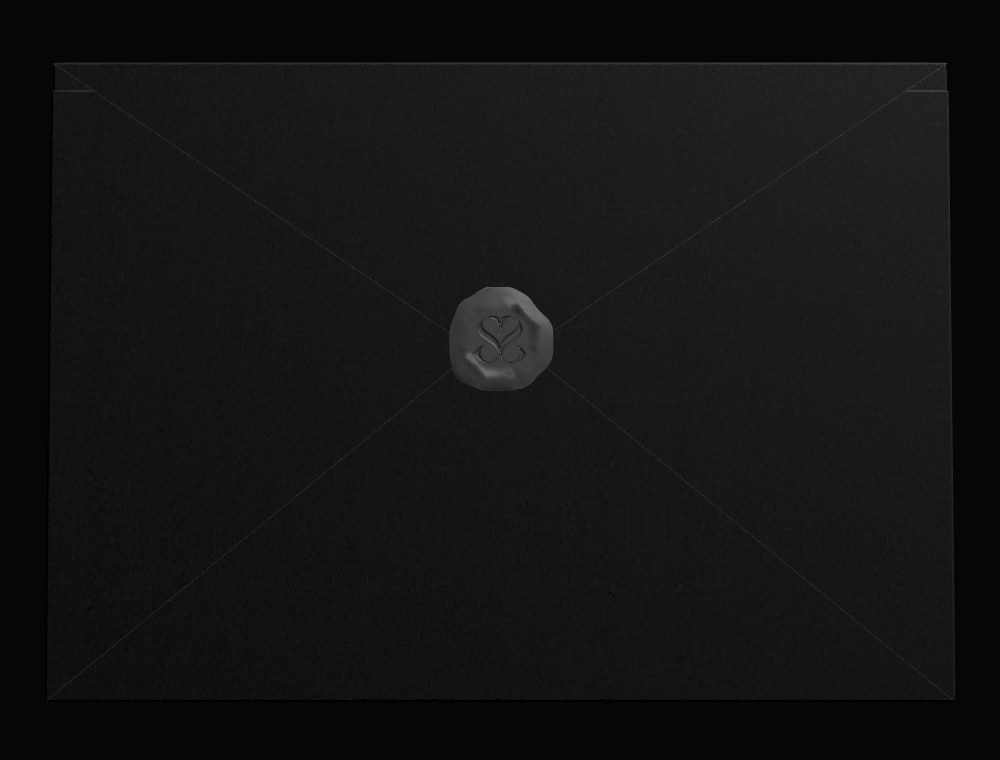
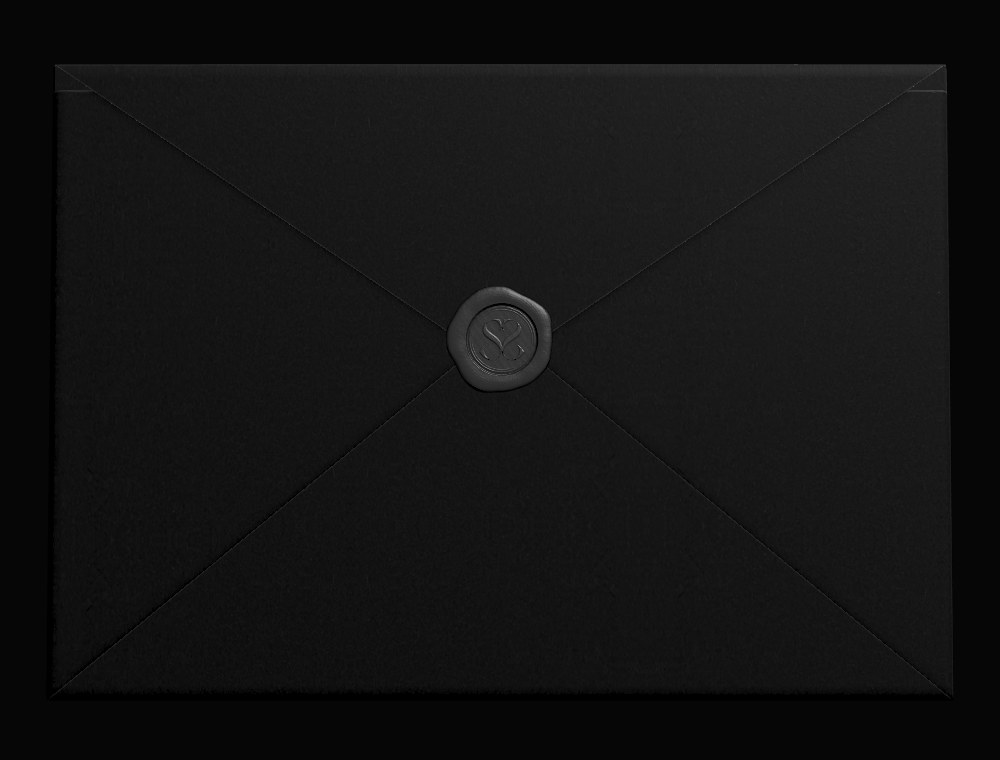
Enveloppe : bords en plis arrondis (le dos se referme sur la face sur 2,5 mm — plus de fente entre deux feuilles plates) ; version simple régénérée (enveloppe, dos avec le nouveau cachet, tampon, cartes du portail avec leurs coupures, le jeu de dos) ; tampon sans ctx.filter (Safari < 18)

Changed region(s): [[0.465, 0.3632, 0.558, 0.5145]]

diff --git a/email-assets.html b/email-assets.html
@@ -98,9 +98,9 @@
   const grab = (type = 'image/jpeg') => { gl.finish(); return canvas.toDataURL(type, 0.88); };
   const CW = 900, CH = 550, CF = 0.86;                       // cartes : même cadrage que les images de l'email (720 × 440)
   // une carte : face 'recto' (logo en creux, encre) ou 'dos' (logo gaufré) ; text : tapé dessus ; noLogo
-  function cardImg({ face = 'recto', text = '', noLogo = false, seed = 1 } = {}) {
+  function cardImg({ face = 'recto', text = '', noLogo = false, seed = 1, lines = null, center = false } = {}) {
     const { vp, eye, P } = view(CW, CH, CARD.w, CF);
-    const ink = text ? card.makeInk(makeInkMap(text, seed).canvas) : null;
+    const ink = text ? card.makeInk(makeInkMap(text, seed, lines, center).canvas) : null;   // coupures et centrage du portail
     const v = { seed: seed % 97, paperXf: [0.6, -0.4, 0, 0], warp: [0.18, -0.08, 0.04], logoOff: [0, 0], noLogo };
     if (face === 'recto') card.draw(vp, eye, P, { model: M4.model(0, Math.PI, 0.004), lod: 'fine', ink, ...v });
     else card.draw(vp, eye, P, { model: M4.model(0, 0, -0.004), lod: 'fine', inkBack: ink, ...v });
@@ -117,28 +117,31 @@
   function envFrontImg() {
     card.addShape('env', { ...EV.ENV, fine: null });
     const { vp, eye, P } = view(1000, 760, EV.ENV.w, 0.9);
-    card.draw(vp, eye, { ...P, inkAlb: 0.75, inkPaper: 4, inkVar: 0.3 }, { model: M4.model(0, Math.PI, 0), lod: 'env', ...envBase });
+    card.draw(vp, eye, { ...P, inkAlb: 0.75, inkPaper: 4, inkVar: 0.3 }, { model: M4.model(0, Math.PI, 0), lod: 'env', ...envBase, ...EV.envPieces(1, 0).front });
     return grab();
   }
-  // le dos, rabat fermé, cachet de cire argenté sur la pointe
+  // le dos, rabat fermé, le cachet sur la pointe — comme dans le parcours (09/10 : forme, cire, bombé, ombre des rabats)
   function envBackImg() {
-    const E = EV;
+    const E = EV, EP = E.envPieces(1, 1);
+    let sd = 11; const rnd = () => { sd = (sd * 16807) % 2147483647; return sd / 2147483647; };
+    const SD = E.sealDraw(rnd), SH = E.SEAL_SHAPE0, Fm = E.sealForm(1, E.SEAL_LOOK0, SH);
     card.addShape('env', { ...E.ENV, fine: null });
     card.addShape('envBack', { ...E.ENV, h: E.ENV_BACK_H, fine: null });
     card.addShape('flap', { ...E.ENV, h: E.FLAP_H, fine: null });
     card.addShape('botFlap', { ...E.ENV, fine: null });
-    card.addShape('seal', { w: E.SEAL_D, h: E.SEAL_D, r: E.SEAL_D / 2, t: 0.2, fine: [E.SEAL_D / 2 + 1, E.SEAL_D / 2 + 1, 0.2, 0, 0], seg: 48, wobble: E.SEAL_WOB });
+    const sealLod = card.addShape('seal-img', { w: E.SEAL_D, h: E.SEAL_D, r: E.SEAL_D / 2, t: 0.2, fine: [E.SEAL_D / 2 + 1, E.SEAL_D / 2 + 1, 0.2, 0, 0], seg: 48, wobble: E.SEAL_WOB, wobPhase: SD.wobPhase, alwaysFine: true });
     const { vp, eye, P } = view(1000, 760, E.ENV.w, 0.9);
     const T = (x, y, z) => M4.model(0, 0, 0, x, y, z), Me = M4.model(0, 0, 0);
-    card.draw(vp, eye, P, { model: Me, lod: 'env', ...envBase });
-    card.draw(vp, eye, P, { model: M4.mul(Me, T(0, -(E.ENV.h - E.ENV_BACK_H) / 2, 1.6)), lod: 'envBack', ...envBase, seed: 31 });
-    card.draw(vp, eye, P, { model: M4.mul(Me, T(0, 0, 1.74)), lod: 'botFlap', ...envBase, seed: 37, clip: [1, -E.ENV.h / 2, E.ENV.h * 0.58, E.ENV.w / 2] });
+    card.draw(vp, eye, P, { model: Me, lod: 'env', ...envBase, ...EP.front });
+    card.draw(vp, eye, P, { model: M4.mul(Me, T(0, -(E.ENV.h - E.ENV_BACK_H) / 2, 1.6)), lod: 'envBack', ...envBase, seed: 31, ...EP.back });
+    card.draw(vp, eye, P, { model: M4.mul(Me, T(0, 0, 1.74)), lod: 'botFlap', ...envBase, seed: 37, clip: [1, -E.ENV.h / 2, E.ENV.h * 0.58, E.ENV.w / 2], ...EP.bot });
     const Mf = M4.mul(Me, M4.mul(M4.mul(T(0, E.ENV.h / 2, 1.9), M4.model(Math.PI, 0, 0)), T(0, E.FLAP_H / 2, 0)));
-    card.draw(vp, eye, P, { model: Mf, lod: 'flap', ...envBase, seed: 43, clip: [1, -E.FLAP_H / 2, E.FLAP_H, E.ENV.w / 2] });
-    const SEAL_LOOK = { albedo: 0.1, rough: 0.34, spec: 6, sheen: 0.2, glint: 0.7, grain: 0.35, fiber: 0, envSpec: 2.6, h: 0.42, b: 0.5, foot: 0.5, footW: 0.12, crease: 0.2, edge: 0, diffRough: 0.35 };
-    const Ms = M4.mul(Mf, T(0, E.FLAP_H / 2 - 7, -0.19));
-    card.draw(vp, eye, { ...P, ...SEAL_LOOK }, { model: Ms, lod: 'seal', seed: 7, paperXf: [0, 0, 0, 0], paperLo: 0.15, logoOff: [0, 0],
-      logoScale: [E.SEAL_K, -E.SEAL_K], warp: [0, 0, 0], seal: [1, E.SEAL_IN, E.SEAL_D / 2, E.SEAL_WOB] });
+    card.draw(vp, eye, P, { model: Mf, lod: 'flap', ...envBase, seed: 43, clip: [1, -E.FLAP_H / 2, E.FLAP_H, E.ENV.w / 2], ...EP.flap });
+    const Ms = M4.mul(Mf, T(0, E.FLAP_H / 2 - 7, -0.19 - EP.sealDz));
+    card.draw(vp, eye, { ...P, ...Fm.look }, { model: Ms, lod: sealLod, seed: 7, paperXf: [0, 0, 0, 0], paperLo: SH.marbre, logoOff: [SD.offX, SD.offY],
+      logoScale: [E.SEAL_K, -E.SEAL_K], warp: [0, 0, 0], seal: [1, E.SEAL_IN, E.SEAL_D / 2, E.SEAL_WOB], form: 1,
+      sealP: [SH.hd, SH.hc, SH.crest, Fm.ring], sealQ: [Fm.pits, Fm.cavWall, SH.cavEdge, SH.aoW], sealV4: [SD.wobPhase, SD.crest, SD.tilt, Fm.peau],
+      sealR: [SH.film, SH.sss, SD.offX, SD.offY], blend: true });
     return grab();
   }
   async function simple() {
@@ -147,7 +150,7 @@
     out.push(['vierge.jpg', cardImg({ face: 'recto', noLogo: true, seed: 5 })]);
     out.push(['bientot.jpg', cardImg({ face: 'dos', text: 'bientôt', seed: 77 })]);
     const { ITEMS } = await import('./src/portal/items.js');
-    for (const it of ITEMS) out.push(['portail-' + it.id + '.jpg', cardImg({ face: 'recto', text: it.label, seed: 100 + it.id.length * 7 })]);
+    for (const it of ITEMS) out.push(['portail-' + it.id + '.jpg', cardImg({ face: it.back ? 'dos' : 'recto', text: it.label, lines: it.lines, center: it.center, seed: 100 + it.id.length * 7 })]);
     out.push(['commander.jpg', cardImg({ face: 'recto', text: 'commander', seed: 5 })]);
     out.push(['feuille.jpg', sheetImg()]);
     out.push(['enveloppe.jpg', envFrontImg()]);

diff --git a/src/sheet/envelope.js b/src/sheet/envelope.js
@@ -142,10 +142,14 @@ export function stampInk(cx, PX, mask, x, y, rot, seed) {
   };
   g.translate(S / 2, S / 2); shape();
   const A = g.getImageData(0, 0, S, S).data;                     // la forme nette
-  // la forme adoucie : pour savoir où l'on est au bord d'un trait, où au milieu d'un plein
-  g.setTransform(1, 0, 0, 1, 0, 0); g.clearRect(0, 0, S, S); g.filter = `blur(${(0.35 * PX).toFixed(1)}px)`;
-  g.translate(S / 2, S / 2); shape(); g.filter = 'none';
-  const B = g.getImageData(0, 0, S, S).data;
+  // la forme adoucie : pour savoir où l'on est au bord d'un trait, où au milieu d'un plein (flou fait à la main :
+  // ctx.filter n'existe pas sur Safari avant iOS 18)
+  const B = new Float32Array(S * S), tmp = new Float32Array(S * S), R = Math.max(1, Math.round(0.35 * PX));
+  for (let k = 0; k < S * S; k++) B[k] = A[k * 4 + 3] / 255;
+  for (let pass = 0; pass < 2; pass++) {
+    for (let yy = 0; yy < S; yy++) { let acc = 0; for (let xx = -R; xx < S + R; xx++) { if (xx + R < S && xx + R >= 0) acc += B[yy * S + xx + R]; if (xx - R - 1 >= 0 && xx - R - 1 < S) acc -= B[yy * S + xx - R - 1]; if (xx >= 0 && xx < S) tmp[yy * S + xx] = acc / (2 * R + 1); } }
+    for (let xx = 0; xx < S; xx++) { let acc = 0; for (let yy = -R; yy < S + R; yy++) { if (yy + R < S && yy + R >= 0) acc += tmp[(yy + R) * S + xx]; if (yy - R - 1 >= 0 && yy - R - 1 < S) acc -= tmp[(yy - R - 1) * S + xx]; if (yy >= 0 && yy < S) B[yy * S + xx] = acc / (2 * R + 1); } }
+  }
   // bruit doux (valeurs sur une grille, interpolées) ; étiré pour les fibres
   const grid = (n) => { const a = new Float32Array((n + 1) * (n + 1)); for (let k = 0; k < a.length; k++) a[k] = r(); return a; };
   const noise = (G, n, u, v) => { u = Math.max(0, Math.min(n - 1e-3, u)); v = Math.max(0, Math.min(n - 1e-3, v));
@@ -158,7 +162,7 @@ export function stampInk(cx, PX, mask, x, y, rot, seed) {
   for (let yy = 0; yy < S; yy++) for (let xx = 0; xx < S; xx++) {
     const k = (yy * S + xx) * 4, a = A[k + 3] / 255;
     if (a < 0.01) continue;
-    const b = B[k + 3] / 255, u = xx / S, v = yy / S;
+    const b = B[k >> 2], u = xx / S, v = yy / S;
     // bord des traits : là où la forme nette dépasse la forme adoucie (l'encre y est plus dense)
     const edge = Math.max(0, Math.min(1, (a - b) * 3 + (1 - b) * 0.6));
     // appui : un dégradé franc d'un côté à l'autre, ondulé
@@ -168,11 +172,12 @@ export function stampInk(cx, PX, mask, x, y, rot, seed) {
     const fu2 = (u * fc + v * fs) * nF * 0.35, fv2 = (-u * fs + v * fc) * nF;
     const fib = noise(GF, nF, ((fu2 % nF) + nF) % nF, ((fv2 % nF) + nF) % nF);
     const mott = noise(GM, nM, u * nM, v * nM);
-    let ink = a * (0.68 + 0.32 * edge) * (0.78 + 0.22 * mott) * (0.55 + 0.45 * press);
-    // moins d'appui : l'encre ne prend plus que sur les sommets des fibres
-    const thr = (1 - press) * 0.85 - edge * 0.15;
-    ink *= Math.max(0, Math.min(1, (fib - thr) * 5 + 0.55));
-    const val = Math.max(0, Math.min(1, ink)) * 0.82;
+    // (09/10 : plus proche de l'encre tapée — trait plein et net, appui qui varie doucement ; les fibres ne mordent
+    // que là où le tampon a vraiment moins appuyé)
+    let ink = a * (0.84 + 0.16 * edge) * (0.88 + 0.12 * mott) * (0.64 + 0.36 * press);
+    const thr = (1 - press) * 0.5 - edge * 0.15;
+    ink *= Math.max(0, Math.min(1, (fib - thr) * 4 + 0.8));
+    const val = Math.max(0, Math.min(1, ink)) * 0.95;
     O[k] = O[k + 1] = O[k + 2] = 255; O[k + 3] = Math.round(val * 255);
   }
   g.setTransform(1, 0, 0, 1, 0, 0); g.clearRect(0, 0, S, S); g.putImageData(out, 0, 0);
@@ -249,16 +254,18 @@ export function sealForm(u, look, shape) {
 
 // l'enveloppe pleine (09/10) : un léger bombé (la feuille et la carte dedans ; bulge 0 → 1) et l'ombre fine sous le bord
 // des rabats (closed : le rabat du haut fermé, 0 → 1) — ce que chaque pièce reçoit (cardRenderer : uPillow, uTriA/B)
-export const ENV_BULGE = 1.2, FLAP_SH = 0.38;
+export const ENV_BULGE = 1.2, FLAP_SH = 0.38, FOLD_W = 2.5;
 export function envPieces(bulge, closed) {
   const A = ENV_BULGE * bulge, c2 = closed * closed;
   const flapTri = [FLAP_SH * c2, ENV.h / 2, ENV.h / 2 - FLAP_H, ENV.w / 2], botTri = [FLAP_SH, -ENV.h / 2, -ENV.h / 2 + ENV.h * 0.58, ENV.w / 2];
   const sy = ENV.h / 2 - FLAP_H + 7, wSeal = 1 - (sy / (ENV.h / 2)) ** 2;
   return {
     front: { pillow: [A, 0, 1, -1] },
-    back: { pillow: [A, -(ENV.h - ENV_BACK_H) / 2, 1, 1], triA: flapTri, triB: botTri },
-    bot: { pillow: [A, 0, 1, 1], triA: flapTri },
-    flap: { pillow: [A * c2, ENV.h / 2 - FLAP_H / 2, -1, -1] },
+    // les bords : le dos (à 1,6–1,9 mm de la face) s'y referme en pli arrondi sur les 2,5 derniers mm (côtés, bas ; le rabat
+    // fermé, en haut) — sans cela on voyait deux feuilles plates séparées par une fente
+    back: { pillow: [A, -(ENV.h - ENV_BACK_H) / 2, 1, 1], triA: flapTri, triB: botTri, foldZ: [1.4, FOLD_W] },
+    bot: { pillow: [A, 0, 1, 1], triA: flapTri, foldZ: [1.54, FOLD_W] },
+    flap: { pillow: [A * c2, ENV.h / 2 - FLAP_H / 2, -1, -1], foldZ: [1.7 * c2, FOLD_W] },
     sealDz: A * c2 * wSeal,                                      // le cachet monte avec le rabat bombé
   };
 }

diff --git a/src/cards/cardRenderer.js b/src/cards/cardRenderer.js
@@ -156,6 +156,8 @@ uniform vec3 uWarp;          // gondolage (mm) : courbure en x, en y, torsion
 // enveloppe (09/10) : bombé (mm au centre, centre de la pièce dans l'enveloppe en y, sens de y, sens de z) — la feuille et la
 // carte dedans gonflent les deux faces ; nul sur les bords (toutes les pièces suivent la même courbe)
 uniform vec4 uPillow;
+// le dos se referme sur la face au bord de l'enveloppe (pli arrondi) : (de combien en mm, sur quelle largeur en mm)
+uniform vec2 uFoldZ;
 uniform vec3 uCurl;          // coin corné : sens du coin (x, y : ±1, repère de la carte), soulèvement (mm, signé)
 uniform sampler2D uLogo;
 uniform float uLogoSq, uLogoRange, uH, uB, uFoot, uFootW, uNoLogo;
@@ -201,6 +203,14 @@ void main() {
   int f = int(aFace + 0.5);
   if (uSeal.x > 0.5 && f == 1) {
     float e = 0.12, h0 = sealH(aPos.xy);
+  if (uFoldZ.x > 0.0) {
+    // distance au bord de l'enveloppe ; le dos plonge vers la face en quart de rond sur les derniers millimètres
+    float ex = aPos.x, ey = uPillow.y + uPillow.z * aPos.y, dx = 114.5 - abs(ex), dy = 81.0 - abs(ey);
+    bool onX = dx < dy; float d = max(0.0, min(dx, dy)), t = clamp(d / uFoldZ.y, 0.0, 1.0), sz = uPillow.w;
+    z -= sz * uFoldZ.x * (1.0 - t) * (1.0 - t);
+    float g = sz * uFoldZ.x * 2.0 * (1.0 - t) / uFoldZ.y * step(d, uFoldZ.y);   // d(z)/d(d), d décroît vers le bord
+    if (onX) dzx -= g * sign(ex); else dzy -= g * sign(ey) * uPillow.z;
+  }
     z -= h0;
     dzx -= (sealH(aPos.xy + vec2(e, 0.0)) - sealH(aPos.xy - vec2(e, 0.0))) / (2.0 * e);
     dzy -= (sealH(aPos.xy + vec2(0.0, e)) - sealH(aPos.xy - vec2(0.0, e))) / (2.0 * e);
@@ -696,7 +706,7 @@ export async function createCardRenderer(gl, base = './') {
     gl.uniform1f(u.uNoLogo, card.noLogo ? 1 : 0);
     gl.uniform4fv(u.uSeal, card.seal || [0, 0, 1, 0]);
     gl.uniform4fv(u.uAO, card.ao || [0, 0, 0, 0]);
-    gl.uniform4fv(u.uPillow, card.pillow || [0, 0, 1, 1]); gl.uniform4fv(u.uTriA, card.triA || [0, 0, 0, 0]); gl.uniform4fv(u.uTriB, card.triB || [0, 0, 0, 0]);
+    gl.uniform4fv(u.uPillow, card.pillow || [0, 0, 1, 1]); gl.uniform2fv(u.uFoldZ, card.foldZ || [0, 1]); gl.uniform4fv(u.uTriA, card.triA || [0, 0, 0, 0]); gl.uniform4fv(u.uTriB, card.triB || [0, 0, 0, 0]);
     gl.uniform4fv(u.uSealP, card.sealP || [0.55, 1.5, 0.42, 0.08]); gl.uniform4fv(u.uSealQ, card.sealQ || [1, 0.5, 0.45, 0.9]);
     gl.uniform4fv(u.uPaperXf, card.paperXf || [0, 0, 0, 0]);
     gl.uniform3fv(u.uWarp, card.warp || [0, 0, 0]);

diff --git a/CLAUDE.md b/CLAUDE.md
@@ -164,7 +164,8 @@ Reprise de session : lire ce fichier + `ETAT.md`. Ne pas relire le prototype ni 
 - **Envoi : la vue s'approche du cachet pendant que le rabat se ferme** (`PO.zoomIn`, ≈ 65 mm de large à l'écran), on le regarde se poser, puis elle recule jusqu'à l'enveloppe entière (`PO.zoomOut`) **avant** la bascule — la tranche reste calée au pixel près sur le champ de l'email (vérifié, `tools/env-shot.mjs`).
 - **Le cachet est toujours dessiné en maillage fin** (`alwaysFine`) : vu de face, le maillage léger des cartes (2 mm) en faisait une pâte lisse, avec facettes et trous sur les parois — c'était la cause du « trop lisse » quels que soient les réglages.
 - **Tampon** (refait 09/10, `stampInk`) : encre blanche plus dense au bord des traits, centre des pleins plus pâle, appui inégal (un côté tiré au hasard plus faible, l'encre n'y prend que sur les fibres, grain étiré), parfois un léger doublé ; logo plus petit dans son cercle (13,5 mm) ; angle (3–29°, gauche ou droite) et position (± 2,5 mm) tirés à chaque envoi.
-- **Enveloppe pleine** (`envPieces`) : léger bombé (1,2 mm au centre, nul sur les bords) une fois la feuille glissée dedans — les deux faces, toutes les pièces sur la même courbe, le cachet monte avec ; ombre fine sous le bord des rabats (haut, une fois fermé, et bas). Tranche toujours calée au pixel sur le champ de l'email.
+- **Enveloppe pleine** (`envPieces`) : léger bombé (1,2 mm au centre, nul sur les bords) une fois la feuille glissée dedans — les deux faces, toutes les pièces sur la même courbe, le cachet monte avec ; ombre fine sous le bord des rabats (haut, une fois fermé, et bas) ; **bords en plis arrondis** : le dos se referme sur la face sur les 2,5 derniers mm (`foldZ`, `FOLD_W`) — avant, deux feuilles plates séparées d'une fente de 1,6 mm. Tranche toujours calée au pixel sur le champ de l'email.
+- **Version simple** : `email-assets.html` dessine l'enveloppe comme le parcours (cachet, bombé, rabats, plis) et les cartes du portail avec leurs coupures (`lines`, `center`, le jeu de dos) ; `node tools/simple-assets.mjs` après tout changement de rendu.
 - **Banc du cachet** : `cachet.html` (l'enveloppe côté cachet et le cachet seuls, même moteur et même lampe, panneau dessous, « copier » ; valeurs par défaut : `SEAL_LOOK0` / `SEAL_SHAPE0` dans envelope.js). Ancien : `scene-cartes.html?cachet&envoi=0` (temps figé sur le cachet posé, curseurs, glisser = tourner l'enveloppe, ligne `s.…` à recopier) ; **l'envoi seul** : `scene-cartes.html?enveloppe&envoi=0` ; captures : `node tools/seal-shot.mjs <nom>` (dont une planche de près + deux biais) ; « nouveau tirage » sur cachet.html.
 
 ## Revue de l'audit, décisions de Maxence (09/10, détail : fin de `REVUE-AUDIT.md`)

diff --git a/ETAT.md b/ETAT.md
@@ -318,4 +318,5 @@ Voir « Point de reprise » en tête de fichier.
 - Chiffres (Chromium, GPU Intel, 390×844) : cachet médiane ≈ 58, max ≈ 120–130 ; champ de l'email en fin d'envoi identique au pixel près à avant (`tools/env-shot.mjs`).
 - Non vérifié : iPhone / Safari, coût du maillage fin du cachet sur téléphone ancien (≈ 135² mailles × 2 faces, un seul objet).
 - Fait ensuite : tampon refait (encre au bord des traits, appui inégal, fibres, doublé) ; enveloppe pleine (bombé 1,2 mm, ombre sous le bord des rabats) ; pose du cachet à partir de la pression.
-- Reste : images de la version simple (`enveloppe.jpg`, `enveloppe-dos.jpg`, `tampon.png` montrent l'ancien rendu → `tools/simple-assets.mjs`) ; épaisseur visible des bords de l'enveloppe ; coulure de cire (référence) ; vérification iPhone.
+- Fait ensuite : bords de l'enveloppe en plis arrondis ; images de la version simple régénérées (enveloppe, dos, tampon, cartes du portail avec leurs coupures) ; tampon sans `ctx.filter` (absent de Safari < 18).
+- Reste : coulure de cire (non demandée) ; vérification iPhone.
